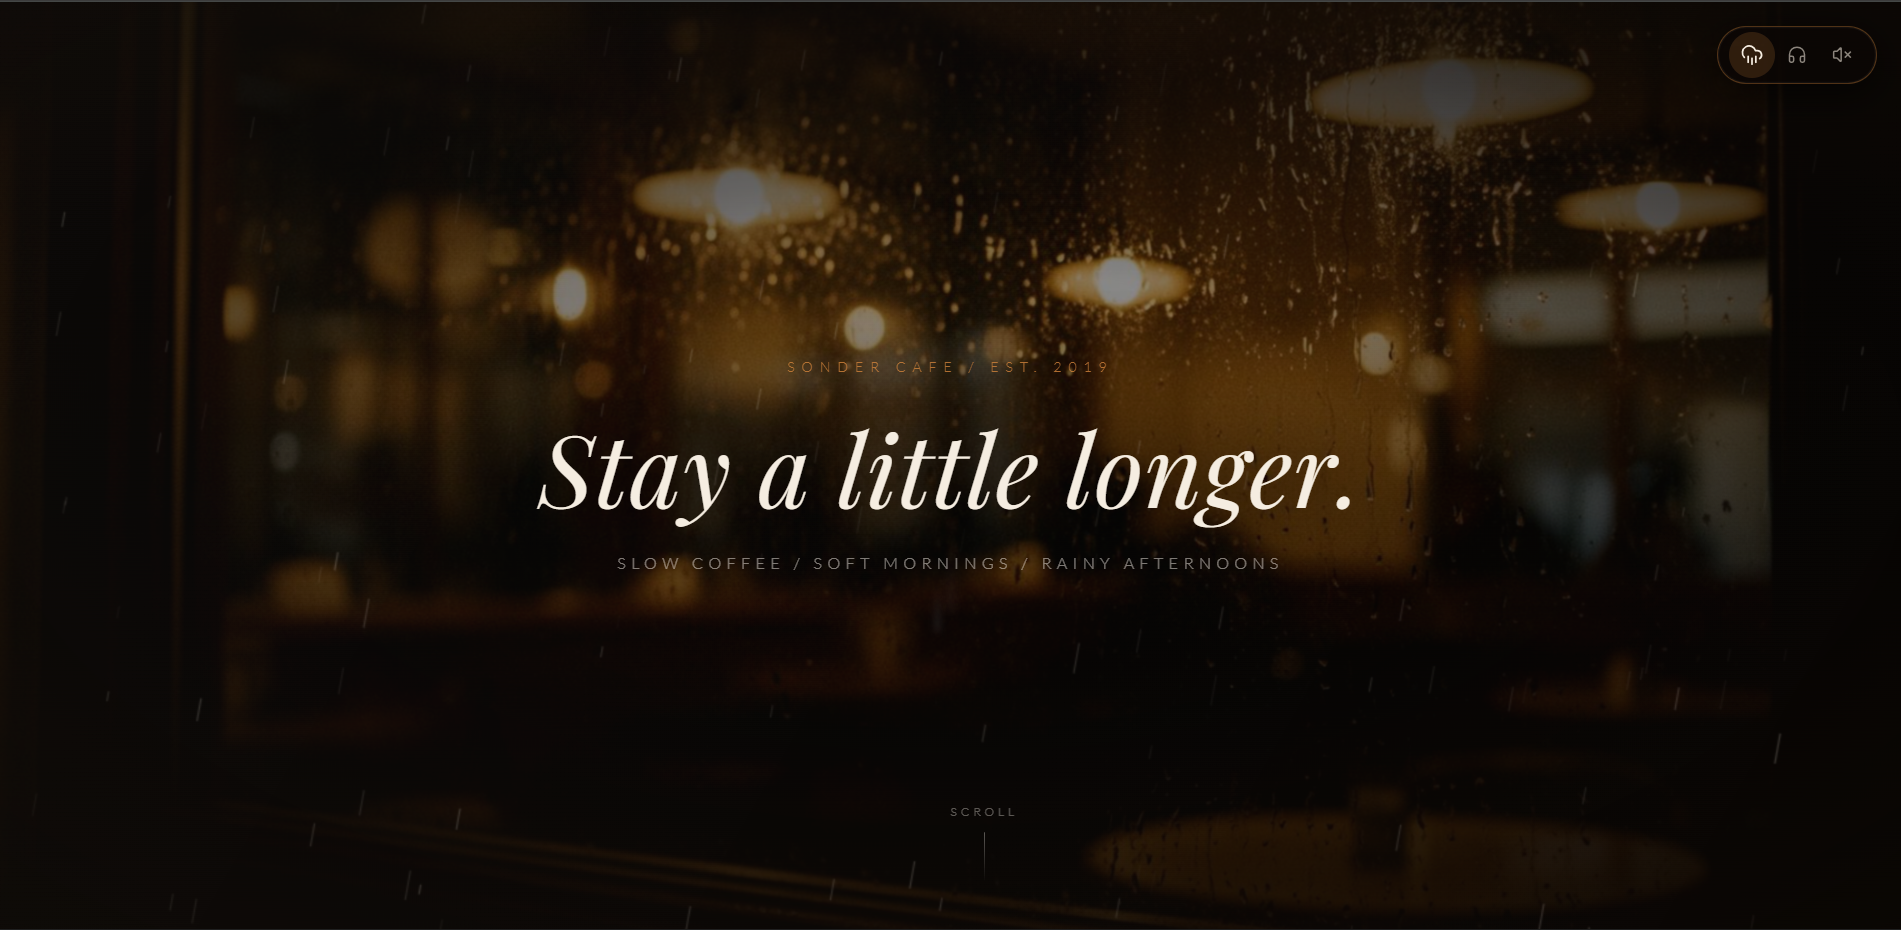
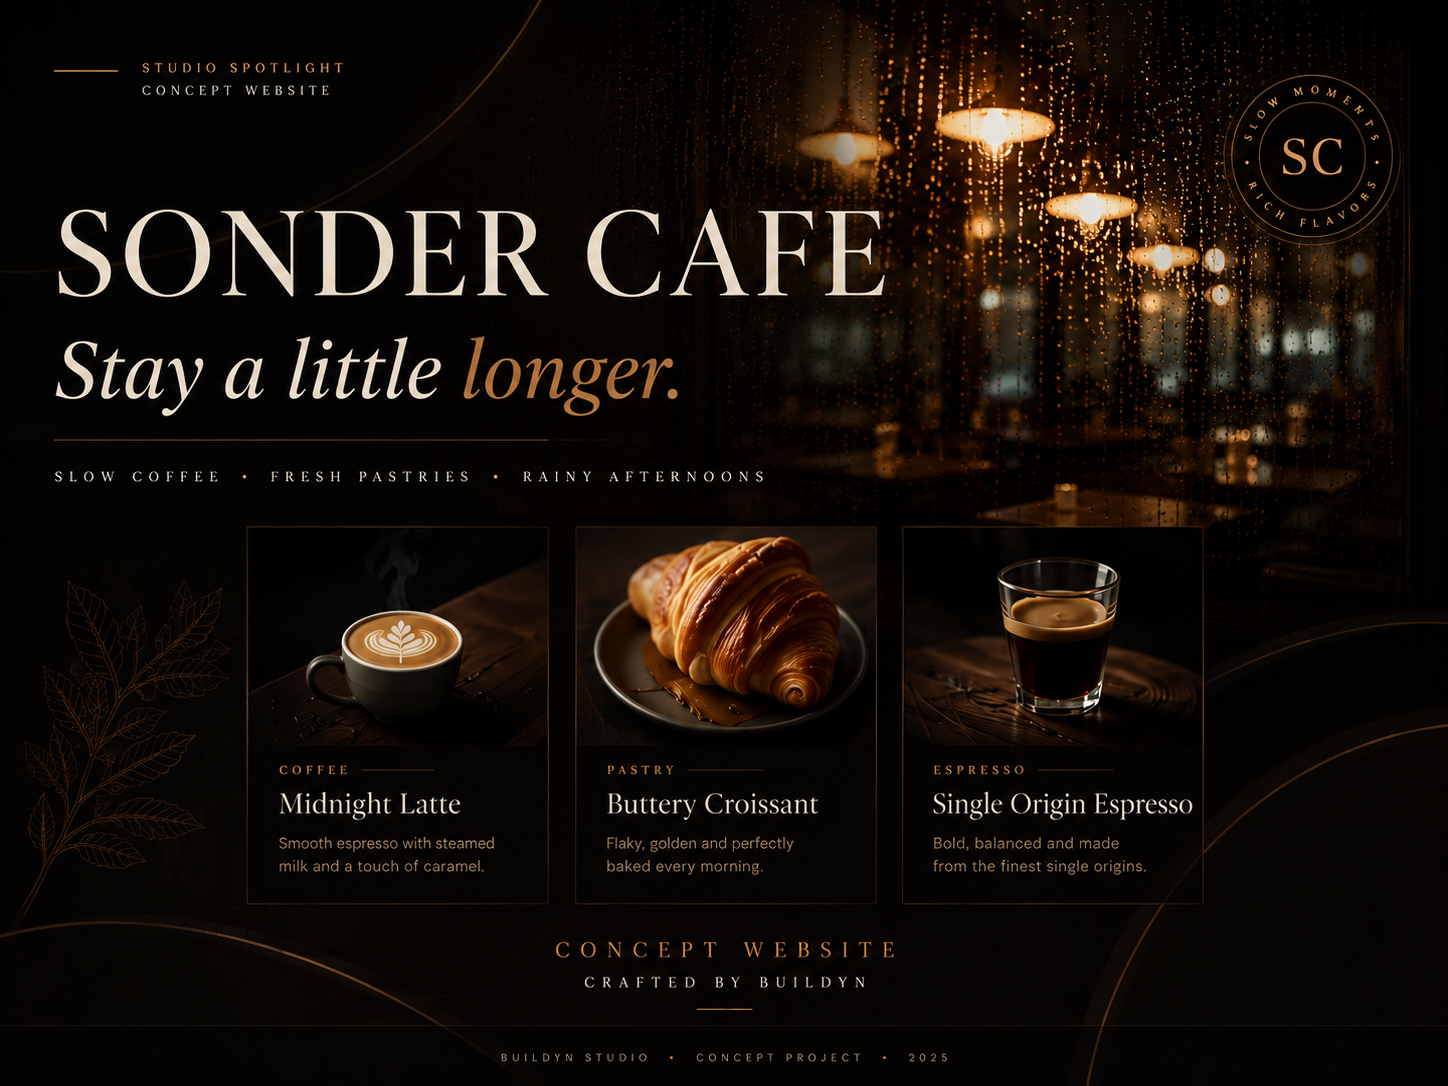
feat: enhance font loading and caching strategies for improved performance

diff --git a/src/pages/Home.tsx b/src/pages/Home.tsx
@@ -223,41 +223,44 @@ function ProjectCard({ project, i }: { project: Project; i: number }) {
     <Reveal y={48} className={offset}>
       <div ref={ref} className="group relative">
         <a href="#contact" className="block">
-          <div className="relative aspect-[4/5] overflow-hidden rounded-sm bg-paper sm:aspect-[4/3]">
-            <motion.img
-              src={project.image}
-              alt={project.title}
-              loading="lazy"
-              style={{ y: imgY }}
-              className="absolute inset-0 h-[124%] w-full -translate-y-[8%] object-cover grayscale-[0.25] transition-all duration-[1.2s] ease-[cubic-bezier(0.16,1,0.3,1)] group-hover:scale-105 group-hover:grayscale-0"
-            />
-            <div className="absolute inset-0 bg-gradient-to-t from-ink/40 via-transparent to-transparent opacity-60 transition-opacity duration-700 group-hover:opacity-30" />
-
-            <span className="absolute left-5 top-5 font-display text-sm font-medium text-ivory mix-blend-difference">
-              ({project.index})
-            </span>
-
-            <div className="absolute bottom-5 right-5 flex h-12 w-12 translate-y-3 items-center justify-center rounded-full bg-ivory text-ink opacity-0 transition-all duration-500 group-hover:translate-y-0 group-hover:opacity-100">
-              →
+          <div className="group overflow-hidden rounded-[28px] border border-white/10 bg-black/40 backdrop-blur-sm transition-all duration-500 hover:border-red-500/30">
+            {/* Image */}
+            <div className="relative aspect-[16/10] overflow-hidden">
+              <motion.img
+                src={project.image}
+                alt={project.title}
+                loading="lazy"
+                decoding="async"
+                style={{ y: imgY }}
+                className="absolute inset-0 h-[120%] w-full -translate-y-[10%] object-cover transition-transform duration-700 group-hover:scale-105"
+              />
+              <div className="absolute inset-0 bg-gradient-to-t from-black/40 via-transparent to-transparent pointer-events-none" />
             </div>
-          </div>
 
-          <div className="mt-5 flex items-start justify-between gap-4">
-            <div>
-              <h3 className="font-display text-2xl font-semibold tracking-tight text-ink transition-colors duration-500 group-hover:text-crimson sm:text-3xl">
-                {project.title}
-              </h3>
-              <p className="mt-1 max-w-sm font-sans text-sm text-ink-soft">
-                {project.tone}
-              </p>
-            </div>
-            <div className="text-right">
-              <p className="font-sans text-xs uppercase tracking-widest text-ink-soft">
-                {project.category}
-              </p>
-              <p className="mt-1 font-sans text-xs text-ink-soft/60">
-                {project.year}
-              </p>
+            {/* Bottom Content */}
+            <div className="flex items-end justify-between border-t border-white/5 bg-black/70 px-8 py-6">
+              <div>
+                <div className="mb-2 flex items-center gap-3">
+                  <span className="font-mono text-red-500">
+                    {String(project.index).padStart(2, "0")}
+                  </span>
+                  <h3 className="text-3xl font-medium text-white">
+                    {project.title}
+                  </h3>
+                </div>
+                <p className="max-w-md text-zinc-400">
+                  {project.tone}
+                </p>
+              </div>
+
+              <div className="text-right">
+                <p className="text-xs uppercase tracking-[0.3em] text-zinc-500">
+                  {project.category}
+                </p>
+                <p className="mt-2 text-zinc-400">
+                  {project.year}
+                </p>
+              </div>
             </div>
           </div>
         </a>

diff --git a/src/App.tsx b/src/App.tsx
@@ -4,8 +4,8 @@ import { useLenis } from "./hooks/useLenis";
 import { Loader } from "./components/Loader";
 import { Nav } from "./components/Nav";
 import Home from "./pages/Home";
-import PrivacyPolicy from "./pages/PrivacyPolicy";
 
+const PrivacyPolicy = lazy(() => import("./pages/PrivacyPolicy"));
 const CinematicScene = lazy(() =>
   import("./components/CinematicScene").then((module) => ({
     default: module.CinematicScene,
@@ -38,7 +38,22 @@ export default function App() {
         <main>
           <Routes>
             <Route path="/" element={<Home />} />
-            <Route path="/privacy-policy" element={<PrivacyPolicy />} />
+            <Route
+              path="/privacy-policy"
+              element={
+                <Suspense
+                  fallback={
+                    <div className="min-h-screen bg-[#090909] flex items-center justify-center text-white">
+                      <div className="text-center">
+                        <p className="text-sm text-zinc-400">Loading...</p>
+                      </div>
+                    </div>
+                  }
+                >
+                  <PrivacyPolicy />
+                </Suspense>
+              }
+            />
           </Routes>
         </main>
       </div>

diff --git a/index.html b/index.html
@@ -6,6 +6,17 @@
     <meta name="viewport" content="width=device-width, initial-scale=1.0" />
     <title>Buildyn | Digital Presence, Built to Be Remembered</title>
 
+    <!-- Preconnect to Font domains -->
+    <link rel="preconnect" href="https://api.fontshare.com" crossorigin />
+    <link rel="preconnect" href="https://fonts.googleapis.com" />
+    <link rel="preconnect" href="https://fonts.gstatic.com" crossorigin />
+
+    <!-- Load fonts asynchronously / non-blocking -->
+    <link rel="preload" href="https://api.fontshare.com/v2/css?f[]=general-sans@400,500,600,700&f[]=satoshi@400,500,700&f[]=cabinet-grotesk@500,700,800,900&display=swap" as="style" />
+    <link rel="preload" href="https://fonts.googleapis.com/css2?family=Instrument+Serif:ital@0;1&display=swap" as="style" />
+    <link rel="stylesheet" href="https://api.fontshare.com/v2/css?f[]=general-sans@400,500,600,700&f[]=satoshi@400,500,700&f[]=cabinet-grotesk@500,700,800,900&display=swap" />
+    <link rel="stylesheet" href="https://fonts.googleapis.com/css2?family=Instrument+Serif:ital@0;1&display=swap" />
+
 <meta
   name="title"
   content="Buildyn | Digital Presence, Built to Be Remembered"

diff --git a/vite.config.ts b/vite.config.ts
@@ -15,4 +15,15 @@ export default defineConfig({
       "@": path.resolve(__dirname, "src"),
     },
   },
+  build: {
+    rollupOptions: {
+      output: {
+        manualChunks: {
+          'react-vendor': ['react', 'react-dom', 'react-router-dom'],
+          'three-vendor': ['three'],
+          'animation-vendor': ['framer-motion', 'gsap', 'lenis'],
+        },
+      },
+    },
+  },
 });

diff --git a/src/index.css b/src/index.css
@@ -1,5 +1,4 @@
-@import url("https://api.fontshare.com/v2/css?f[]=general-sans@400,500,600,700&f[]=satoshi@400,500,700&f[]=cabinet-grotesk@500,700,800,900&display=swap");
-@import url("https://fonts.googleapis.com/css2?family=Instrument+Serif:ital@0;1&display=swap");
+
 @import "tailwindcss";
 
 @theme {
